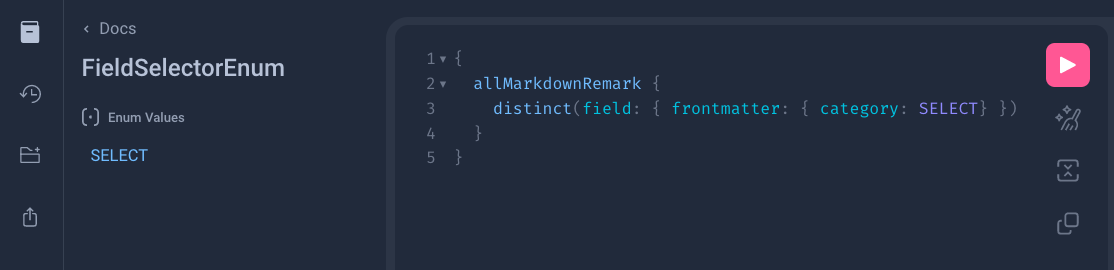
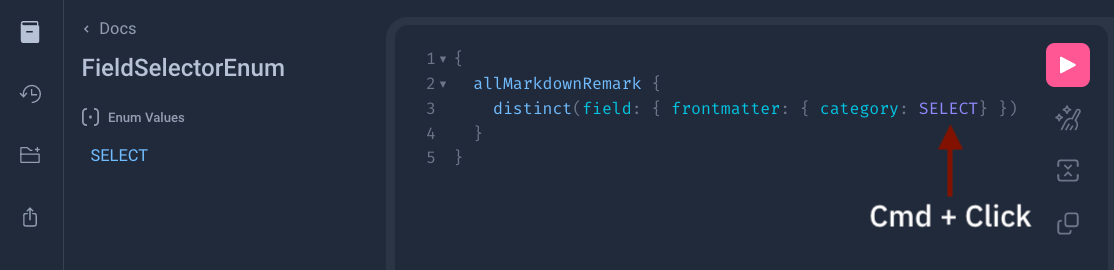
finish digging into source section and add conclusion para

Changed region(s): [[0.763, 0.7407, 0.9461, 0.8593], [0.8241, 0.4741, 0.8851, 0.7111]]

diff --git a/src/markdown/gatsby5-distinct-query.md b/src/markdown/gatsby5-distinct-query.md
@@ -18,7 +18,7 @@ This post assumes that the reader has some basic knowledge of building websites 
 
 ## Example
 
-A common use case for Gatsby is to generate a static site where the content for the pages comes from markdown files. The [gatsby-transformer-remark](https://www.npmjs.com/package/gatsby-transformer-remark) plugin transforms markdown files into HTML and creates nodes for them in Gatsby's GraphQL data layer. For example, given a `src` directory in a Gatsby project that looks like this (suppose this is for a fitness site):
+A common use case for Gatsby is to generate a static site where the content for the pages comes from markdown files. The [gatsby-transformer-remark](https://www.npmjs.com/package/gatsby-transformer-remark) plugin transforms markdown files into HTML and creates nodes for them in Gatsby's GraphQL data layer. For instance, suppose we have a fitness site and the  `src` directory contains markdown files for each workout routine as follows:
 
 ```
 src
@@ -85,7 +85,7 @@ Yoga is a good way to improve flexibility, reduce stress,
 and promote overall wellness...
 ```
 
-Now you'd like to get a list of all the categories, perhaps to generate a list of category tags that readers could click on to view articles for that category.
+Now we would like to get a list of all the categories, perhaps to generate a list of category tags that readers could click on to view articles for that category.
 
 ## Solution
 
@@ -103,7 +103,7 @@ Here is the GraphQL query to get a list of distinct categories. The key here is 
 An aggregation resolver is a type of resolver function that aggregates data from multiple sources into a single field on a GraphQL node. In addition to the distinct aggregation, Gatsby also supports group, min, max, and sum. I couldn't find documentation about these built-in resolvers but here's a <a class="markdown-link" href="https://github.com/gatsbyjs/gatsby/pull/30789">PR</a> where some of them got introduced. It's also possible to create your own <a class="markdown-link" href="https://www.gatsbyjs.com/docs/reference/graphql-data-layer/schema-customization/#createresolvers-api">custom resolvers</a>.
 </aside>
 
-Using the `distinct` resolver will produce output like this:
+Running the above query will produce output like this:
 
 ```json
 {
@@ -132,7 +132,7 @@ To have the categories sorted alphabetically in ascending order, pass in the `so
 }
 ```
 
-If the markdown files are located in different directories such as `/src/markdown/fitness` and `/src/markdown/health` and you only want the distinct categories for the `fitness` articles, pass the `filter` option to the query field. Within that, specify the field that should be filtered on, in this case, `fileAbsolutePath`. Then use the `regex` filter operator to limit the results to only markdown files that are located in a certain directory:
+If the markdown files are located in different directories such as `/src/markdown/fitness` and `/src/markdown/recipes` and you only want the distinct categories for the `fitness` articles, pass the `filter` option to the query field. Within that, specify the field that should be filtered on, in this case, `fileAbsolutePath`. Then use the `regex` filter operator to limit the results to only markdown files that are located in a certain directory:
 
 ```graphql
 {
@@ -151,7 +151,7 @@ If you just needed to find the solution quickly, you can copy paste the above an
 
 ## Finding The Solution
 
-Although the query seems straightforward enough, finding the correct syntax was surprisingly difficult. The reason is the aggregation syntax has changed from Gatsby v4 to Gatsby v5. At the time when I was searching for it, here is the syntax that was turning up for a distinct query:
+Although the query seems straightforward enough, finding the correct syntax was surprisingly difficult. The reason is the aggregation syntax has changed from Gatsby v4 to Gatsby v5. In my search for the correct syntax, I tried both Duck Duck Go (my default search engine) and Google (my fallback option), but both returned either invalid syntax or links to official Gatsby docs with no mention of the "distinct" keyword. Here is the query that was turning up from web search:
 
 ```graphql
 # OLD GATSBY V4 SYNTAX - DO NOT USE ON GATSBY V5
@@ -179,8 +179,6 @@ Running the above will result in an error:
   ]
 }
 ```
-
-I tried Duck Duck Go (my default search engine) and Google (fallback when can't find what I need on DDG) but both were returning the same results, either invalid syntax, or links to official Gatsby docs with no mention of the word "distinct".
 
 ### How About AI?
 
@@ -270,7 +268,7 @@ it(`returns list of distinct values in a field`, async () => {
 })
 ```
 
-So to make the `distinct` query work requires specifying an object for the field rather than triple underscores, and the addition of `: SELECT` after specifying which field you want to extract distinct values for.
+So to make the `distinct` query work requires specifying an object for the field rather than triple underscores, and the addition of `: SELECT` after specifying which field you want to extract distinct values for. Updating my query to the syntax shown in the rest resolved the issue.
 
 ### But Why?
 
@@ -296,10 +294,48 @@ leafInputComposer: schemaComposer.getOrCreateETC(
 }).getTypeNonNull()
 ```
 
-TODO: Maybe not this para...
-At the top of every source file on Github, there's a "Blame" button. Clicking it will run [git blame](https://www.git-scm.com/docs/git-blame) which will show the commit message associated with each line. Running that for this test showed that all the lines for the `distinct` query were associated with commit message `chore: apply patches for v5 (#36796)`. The number portion of that message is clickable when running Blame on the Github UI, and it leads to a PR.
+From the comment, it looks like it would have made more sense to have nothing specified, for example `distinct(field: frontmatter { category })` but the GraphQL spec doesn't allow this and that's why `SELECT` had to be added as in `distinct(field: frontmatter { category: SELECT })`. To see if I could get any more explanation about this, I clicked on the "Blame" button (in the Github UI, it shows up at the top of every source file) as follows:
 
-## TODO
-* Improve structure of example para
-* WIP: Explain technique to find it as it wasn't in official docs https://www.gatsbyjs.com/docs/graphql-reference/ (had to search source, tests, git commit, github issue)
-* Conclusion para
+![github blame button](../images/github-blame-button.png "github blame button")
+
+This shows the commit messages for every line in the source file. For the section of code that defined `FieldSelectorEnum`, the commit message was: `feat: [v5 breaking change] change sort and aggregation fields API #36708`. In Github the `#` before a number makes it link to either an issue or a PR, so I clicked on #36708 and it led to this [PR](https://github.com/gatsbyjs/gatsby/pull/36708). The description for this PR indicates that it implements changes from a discussion titled [RFC: Change to sort and aggregation fields API #36242](https://github.com/gatsbyjs/gatsby/discussions/36242). This discussion explains the syntax change from the triple underscore format to the object format for sorting and aggregation and provides some examples of old vs new syntax. This change was done to improve performance. The examples provided are:
+
+```graphql
+# OLD SYNTAX
+{
+  allMarkdownRemark(sort: { fields: [frontmatter___date], order: DESC }) {
+    nodes {
+      ...fields
+    }
+  }
+}
+
+# NEW SYNTAX
+{
+  allMarkdownRemark(sort: { frontmatter: { date: DESC } }) {
+    nodes {
+      ...fields
+    }
+  }
+}
+
+# OLD
+{
+  allMarkdownRemark {
+    distinct(field: frontmatter___category)
+  }
+}
+
+# NEW
+{
+  allMarkdownRemark {
+    distinct(field: { frontmatter: { category: SELECT } })
+  }
+}
+```
+
+For sorting, it makes sense that you would have to specify ASC or DESC, for example, but for distinct, there's nothing that really fits but the GraphQL forces "something" to go there so that's why `SELECT` is used.
+
+## Conclusion
+
+This post has covered how to write a GraphQL query for Gatsby v5 to extract distinct values for a given field. It has also covered options for sorting and limiting results to a particular directory where markdown files are located. Finally, it also covered a useful technique for getting answers to questions about open source projects when a web search doesn't turn up the answer.
